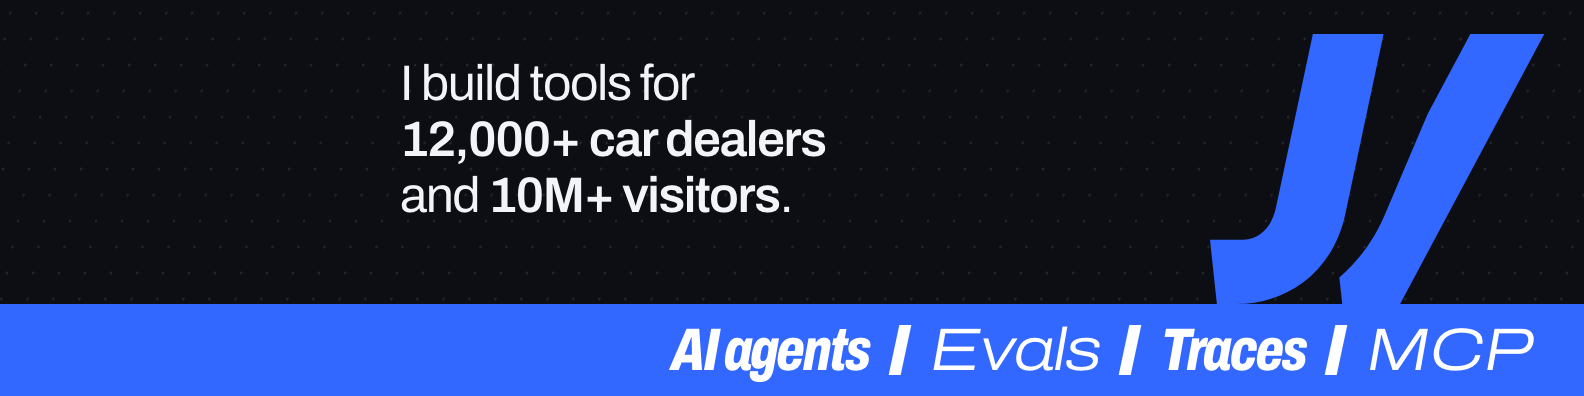
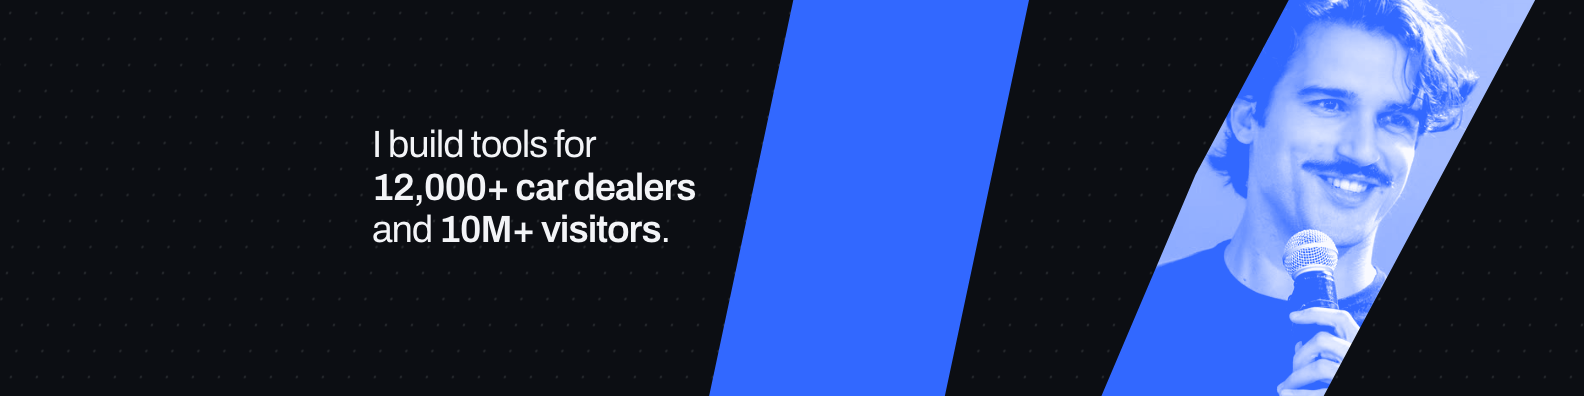
A new LinkedIn header, with the stage photo in the V
It no longer repeats the profile picture. The earlier version with that
photo is gone from the kit and the brand page.

diff --git a/brand/index.html b/brand/index.html
@@ -108,7 +108,7 @@
     <section class="section invert" id="files">
       <div class="wrap">
         <header class="head"><h2 class="rv">The files.</h2></header>
-        <ul class="dls"><li class="dl rv"><span class="dl__name">The mark</span><span class="dl__files"><a href="/assets/brand/kit/mark-ink.svg" download>Ink SVG</a><a href="/assets/brand/kit/mark-paper.svg" download>Paper SVG</a><a href="/assets/brand/kit/mark-blue.svg" download>Blue SVG</a><a href="/assets/brand/kit/mark-orange.svg" download>Orange SVG</a><a href="/assets/brand/kit/mark-ink.png" download>Ink PNG</a><a href="/assets/brand/kit/mark-paper.png" download>Paper PNG</a></span></li><li class="dl rv"><span class="dl__name">Mark with portrait</span><span class="dl__files"><a href="/assets/brand/kit/mark-portrait-ink.png" download>On ink PNG</a><a href="/assets/brand/kit/mark-portrait-paper.png" download>On paper PNG</a></span></li><li class="dl rv"><span class="dl__name">Mark with name</span><span class="dl__files"><a href="/assets/brand/kit/lockup-ink.svg" download>Ink SVG</a><a href="/assets/brand/kit/lockup-paper.svg" download>Paper SVG</a><a href="/assets/brand/kit/lockup-ink.png" download>Ink PNG</a><a href="/assets/brand/kit/lockup-paper.png" download>Paper PNG</a></span></li><li class="dl rv"><span class="dl__name">Profile picture</span><span class="dl__files"><a href="/assets/brand/kit/avatar-ink.png" download>Dark</a><a href="/assets/brand/kit/avatar-blue.png" download>Blue</a></span></li><li class="dl rv"><span class="dl__name">LinkedIn banner</span><span class="dl__files"><a href="/assets/brand/kit/linkedin-banner.png" download>PNG</a><a href="/assets/brand/kit/linkedin-banner-portrait.png" download>With portrait, PNG</a></span></li><li class="dl rv"><span class="dl__name">Business card</span><span class="dl__files"><a href="/assets/brand/kit/business-card.pdf" download>Print PDF, 85 × 55 mm + 3 mm bleed</a><a href="/assets/brand/kit/card-front.png" download>Front</a><a href="/assets/brand/kit/card-back.png" download>Back</a></span></li><li class="dl rv"><span class="dl__name">Talk opener</span><span class="dl__files"><a href="/assets/brand/kit/slide-opener.png" download>1920 × 1080</a></span></li><li class="dl rv"><span class="dl__name">Email signature</span><span class="dl__files"><a href="/assets/brand/kit/email-signature.html" download>HTML</a><a href="/assets/brand/kit/email-signature.png" download>Preview</a></span></li><li class="dl rv"><span class="dl__name">Share card</span><span class="dl__files"><a href="/assets/brand/og.jpg" download>1200 × 630</a></span></li><li class="dl rv"><span class="dl__name">Brand board</span><span class="dl__files"><a href="/assets/brand/kit/brand-board.jpg" download>JPG</a></span></li></ul>
+        <ul class="dls"><li class="dl rv"><span class="dl__name">The mark</span><span class="dl__files"><a href="/assets/brand/kit/mark-ink.svg" download>Ink SVG</a><a href="/assets/brand/kit/mark-paper.svg" download>Paper SVG</a><a href="/assets/brand/kit/mark-blue.svg" download>Blue SVG</a><a href="/assets/brand/kit/mark-orange.svg" download>Orange SVG</a><a href="/assets/brand/kit/mark-ink.png" download>Ink PNG</a><a href="/assets/brand/kit/mark-paper.png" download>Paper PNG</a></span></li><li class="dl rv"><span class="dl__name">Mark with portrait</span><span class="dl__files"><a href="/assets/brand/kit/mark-portrait-ink.png" download>On ink PNG</a><a href="/assets/brand/kit/mark-portrait-paper.png" download>On paper PNG</a></span></li><li class="dl rv"><span class="dl__name">Mark with name</span><span class="dl__files"><a href="/assets/brand/kit/lockup-ink.svg" download>Ink SVG</a><a href="/assets/brand/kit/lockup-paper.svg" download>Paper SVG</a><a href="/assets/brand/kit/lockup-ink.png" download>Ink PNG</a><a href="/assets/brand/kit/lockup-paper.png" download>Paper PNG</a></span></li><li class="dl rv"><span class="dl__name">Profile picture</span><span class="dl__files"><a href="/assets/brand/kit/avatar-ink.png" download>Dark</a><a href="/assets/brand/kit/avatar-blue.png" download>Blue</a></span></li><li class="dl rv"><span class="dl__name">LinkedIn banner</span><span class="dl__files"><a href="/assets/brand/kit/linkedin-banner.png" download>1584 × 396</a></span></li><li class="dl rv"><span class="dl__name">Business card</span><span class="dl__files"><a href="/assets/brand/kit/business-card.pdf" download>Print PDF, 85 × 55 mm + 3 mm bleed</a><a href="/assets/brand/kit/card-front.png" download>Front</a><a href="/assets/brand/kit/card-back.png" download>Back</a></span></li><li class="dl rv"><span class="dl__name">Talk opener</span><span class="dl__files"><a href="/assets/brand/kit/slide-opener.png" download>1920 × 1080</a></span></li><li class="dl rv"><span class="dl__name">Email signature</span><span class="dl__files"><a href="/assets/brand/kit/email-signature.html" download>HTML</a><a href="/assets/brand/kit/email-signature.png" download>Preview</a></span></li><li class="dl rv"><span class="dl__name">Share card</span><span class="dl__files"><a href="/assets/brand/og.jpg" download>1200 × 630</a></span></li><li class="dl rv"><span class="dl__name">Brand board</span><span class="dl__files"><a href="/assets/brand/kit/brand-board.jpg" download>JPG</a></span></li></ul>
       </div>
     </section>
   </main>
